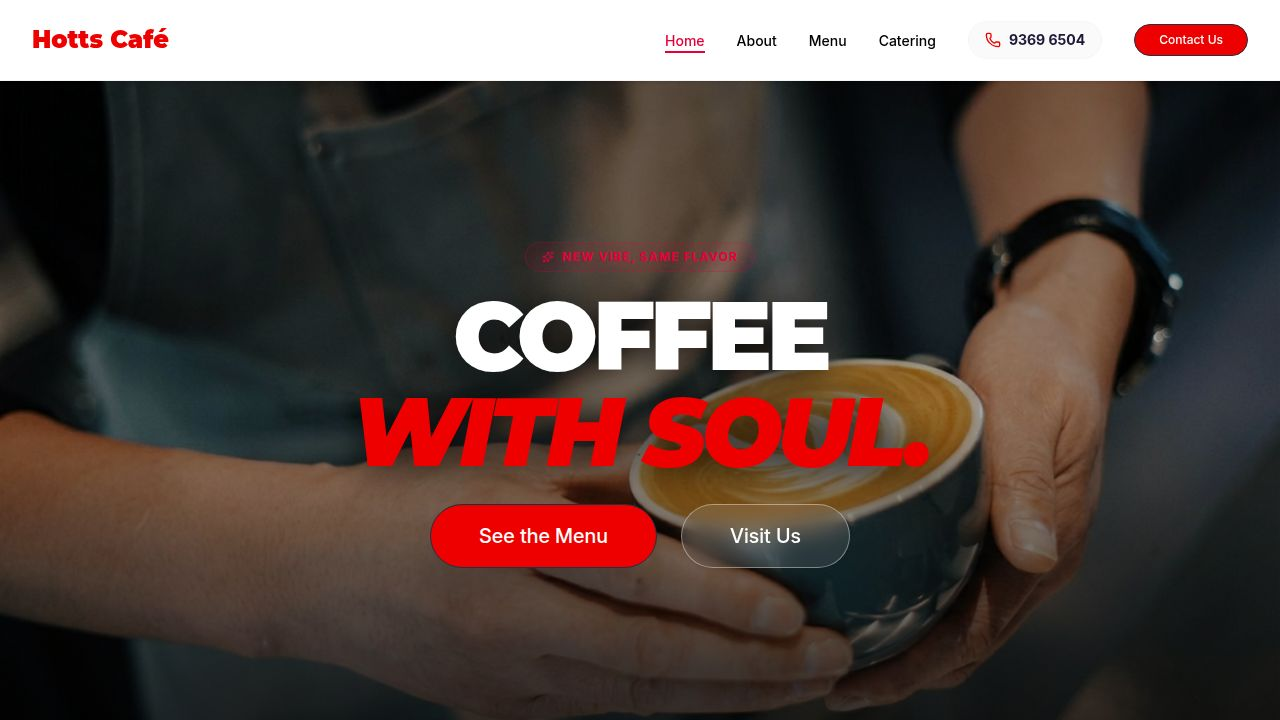
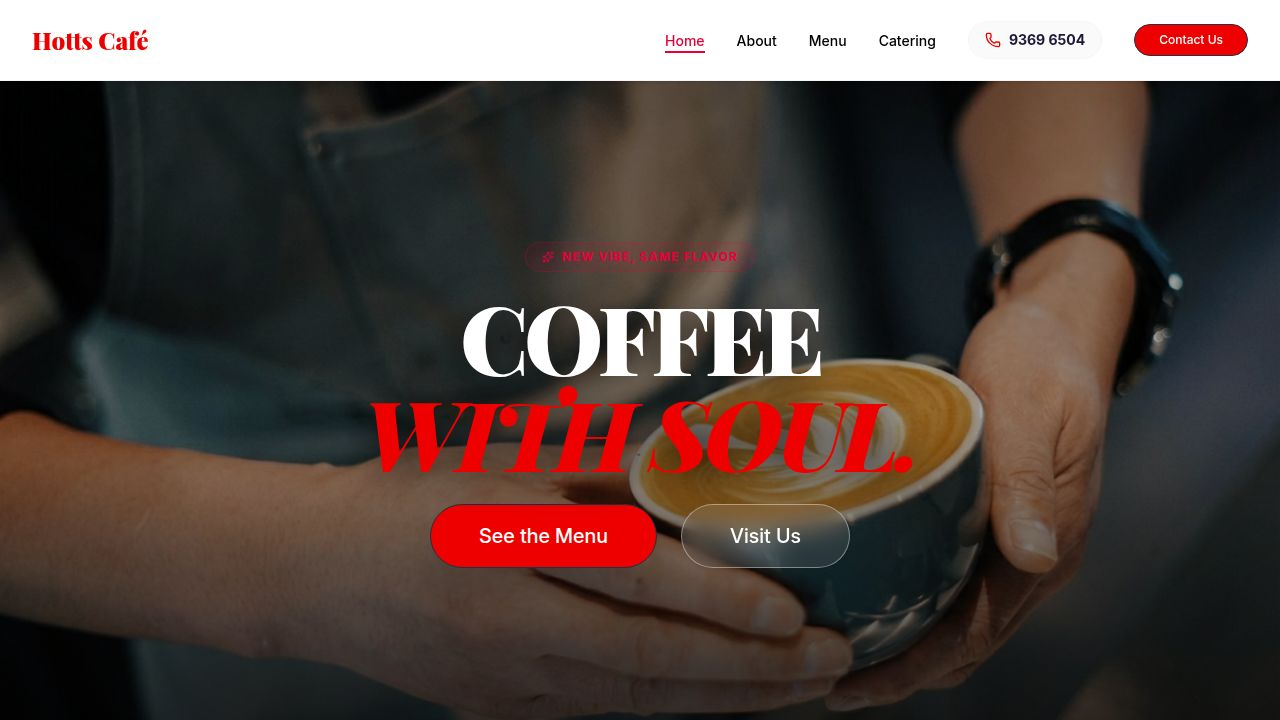
Update website to use elegant Playfair Display for headings
Updates global font styles in `client/index.html` and `client/src/index.css` to use 'Playfair Display' for headings, and refreshes image imports in `client/src/pages/catering.tsx`.

Replit-Commit-Author: Agent
Replit-Commit-Session-Id: e303a9a2-4c6c-4dd7-8652-41cfbf9004c3
Replit-Commit-Checkpoint-Type: full_checkpoint
Replit-Commit-Event-Id: c792148c-0273-4424-ad25-f62c9fa7adda
Replit-Commit-Screenshot-Url: https://storage.googleapis.com/screenshot-production-us-central1/c4af5781-d439-4a2f-b30c-cc76b1be9f17/e303a9a2-4c6c-4dd7-8652-41cfbf9004c3/m0XxBGR
Replit-Helium-Checkpoint-Created: true

Changed region(s): [[0.2812, 0.3972, 0.75, 0.6722], [0.0312, 0.0306, 0.1562, 0.0917]]

diff --git a/client/src/pages/catering.tsx b/client/src/pages/catering.tsx
@@ -3,24 +3,24 @@ import { motion, AnimatePresence } from "framer-motion";
 import { Button } from "@/components/ui/button";
 import { Phone, Mail, Clock, ChevronRight, ChevronLeft, Quote, CheckCircle, Leaf, Flame, Utensils } from "lucide-react";
 import { useState, useEffect } from "react";
-import slide1 from "../assets/catering-slide-1-v3.png";
-import slide2 from "../assets/catering-slide-2-v3.png";
+import slide1 from "../assets/corporate-event.png";
+import slide2 from "../assets/gallery/patie-fire.png";
 import slide3 from "../assets/catering-slide-3-new.png";
-import slide4 from "../assets/catering-slide-4.png";
+import slide4 from "../assets/multi-meat-tasty.png";
 import slide5 from "../assets/catering-slide-5.png";
 import slide6 from "../assets/catering-slide-6.png";
-import gallery1 from "../assets/gallery-1-new.png";
-import gallery2 from "../assets/gallery-2-new.png";
-import gallery3 from "../assets/gallery-3-new.png";
-import gallery4 from "../assets/gallery-4-new.png";
-import gallery5 from "../assets/gallery-5-new.png";
-import gallery6 from "../assets/gallery-6-new.png";
-import gallery7 from "../assets/gallery-7-new.png";
-import gallery8 from "../assets/gallery-8-new.png";
+import gallery1 from "../assets/gallery/catering-intellect.png";
+import gallery2 from "../assets/gallery/diverse-event-catering.png";
+import gallery3 from "../assets/gallery/food-catering.png";
+import gallery4 from "../assets/gallery/corporate-event.png";
+import gallery5 from "../assets/gallery/party-crunches.png";
+import gallery6 from "../assets/gallery/catering-banquet.png";
+import gallery7 from "../assets/gallery/catering-arrangement.png";
+import gallery8 from "../assets/gallery/chef-food-ready.webp";
 import gallery9 from "../assets/gallery-9-new.png";
-import gallery10 from "../assets/gallery-10-new.png";
-import gallery11 from "../assets/gallery-11-new.png";
-import gallery12 from "../assets/gallery-12-new.png";
+import gallery10 from "../assets/gallery/tea-party.png";
+import gallery11 from "../assets/gallery/burger-row.png";
+import gallery12 from "../assets/gallery/board-room.png";
 import user1 from "../assets/testimonial-user_1.jpg";
 import user2 from "../assets/testimonial-user_2.jpg";
 import user3 from "../assets/testimonial-user_3.jpg";
@@ -47,8 +47,8 @@ export default function Catering() {
     },
     {
       url: slide4,
-      title: "Gourmet Canapes",
-      desc: "Elegant finger foods for sophisticated gatherings."
+      title: "Gourmet Choices",
+      desc: "Elegant fine choice of dishes for sophisticated gatherings."
     },
     {
       url: slide5,
@@ -193,7 +193,7 @@ export default function Catering() {
                 { img: gallery4, label: "Event Networking" },
                 { img: gallery5, label: "Cocktail Party" },
                 { img: gallery6, label: "Grand Spread" },
-                { img: gallery7, label: "Seafood Apps" },
+                { img: gallery7, label: "Seafood Studio" },
                 { img: gallery8, label: "Chef Crafted" },
                 { img: gallery9, label: "Seasonal Salads" },
                 { img: gallery10, label: "Morning Tea" },
@@ -222,7 +222,7 @@ export default function Catering() {
           </section>
 
           {/* Testimonial Slider */}
-          <section className="py-32 bg-neutral-50 rounded-[3rem] overflow-hidden mb-24 px-8">
+          {/* <section className="py-32 bg-neutral-50 rounded-[3rem] overflow-hidden mb-24 px-8">
             <div className="text-center mb-16">
               <Quote className="w-12 h-12 text-primary/20 mx-auto mb-6" />
               <h2 className="font-heading text-4xl font-black text-[#201839] uppercase tracking-tighter">Testimonials</h2>
@@ -312,7 +312,7 @@ export default function Catering() {
                 </motion.div>
               </div>
             </div>
-          </section>
+          </section> */}
 
           {/* Ready to Order Section */}
           <section className="relative overflow-hidden rounded-[3rem] bg-[#201839] p-12 md:p-24 text-center text-white">

diff --git a/client/index.html b/client/index.html
@@ -17,8 +17,8 @@
     <link rel="icon" type="image/png" href="/favicon.png" />
     <link rel="preconnect" href="https://fonts.googleapis.com">
     <link rel="preconnect" href="https://fonts.gstatic.com" crossorigin>
-    <!-- Importing Montserrat for bold, modern headings and Inter for clean, professional body text -->
-    <link href="https://fonts.googleapis.com/css2?family=Montserrat:ital,wght@0,100..900;1,100..900&family=Inter:ital,opsz,wght@0,14..32,100..900;1,14..32,100..900&display=swap" rel="stylesheet">
+    <!-- Importing Playfair Display for an elegant food magazine aesthetic and Inter for clean body text -->
+    <link href="https://fonts.googleapis.com/css2?family=Playfair+Display:ital,wght@0,400..900;1,400..900&family=Inter:ital,opsz,wght@0,14..32,100..900;1,14..32,100..900&display=swap" rel="stylesheet">
   </head>
   <body>
     <div id="root"></div>

diff --git a/client/src/index.css b/client/src/index.css
@@ -29,7 +29,7 @@
   --radius-lg: 1.5rem;
 
   --font-sans: 'Inter', sans-serif;
-  --font-heading: 'Montserrat', sans-serif;
+  --font-heading: 'Playfair Display', serif;
 }
 
 :root {
